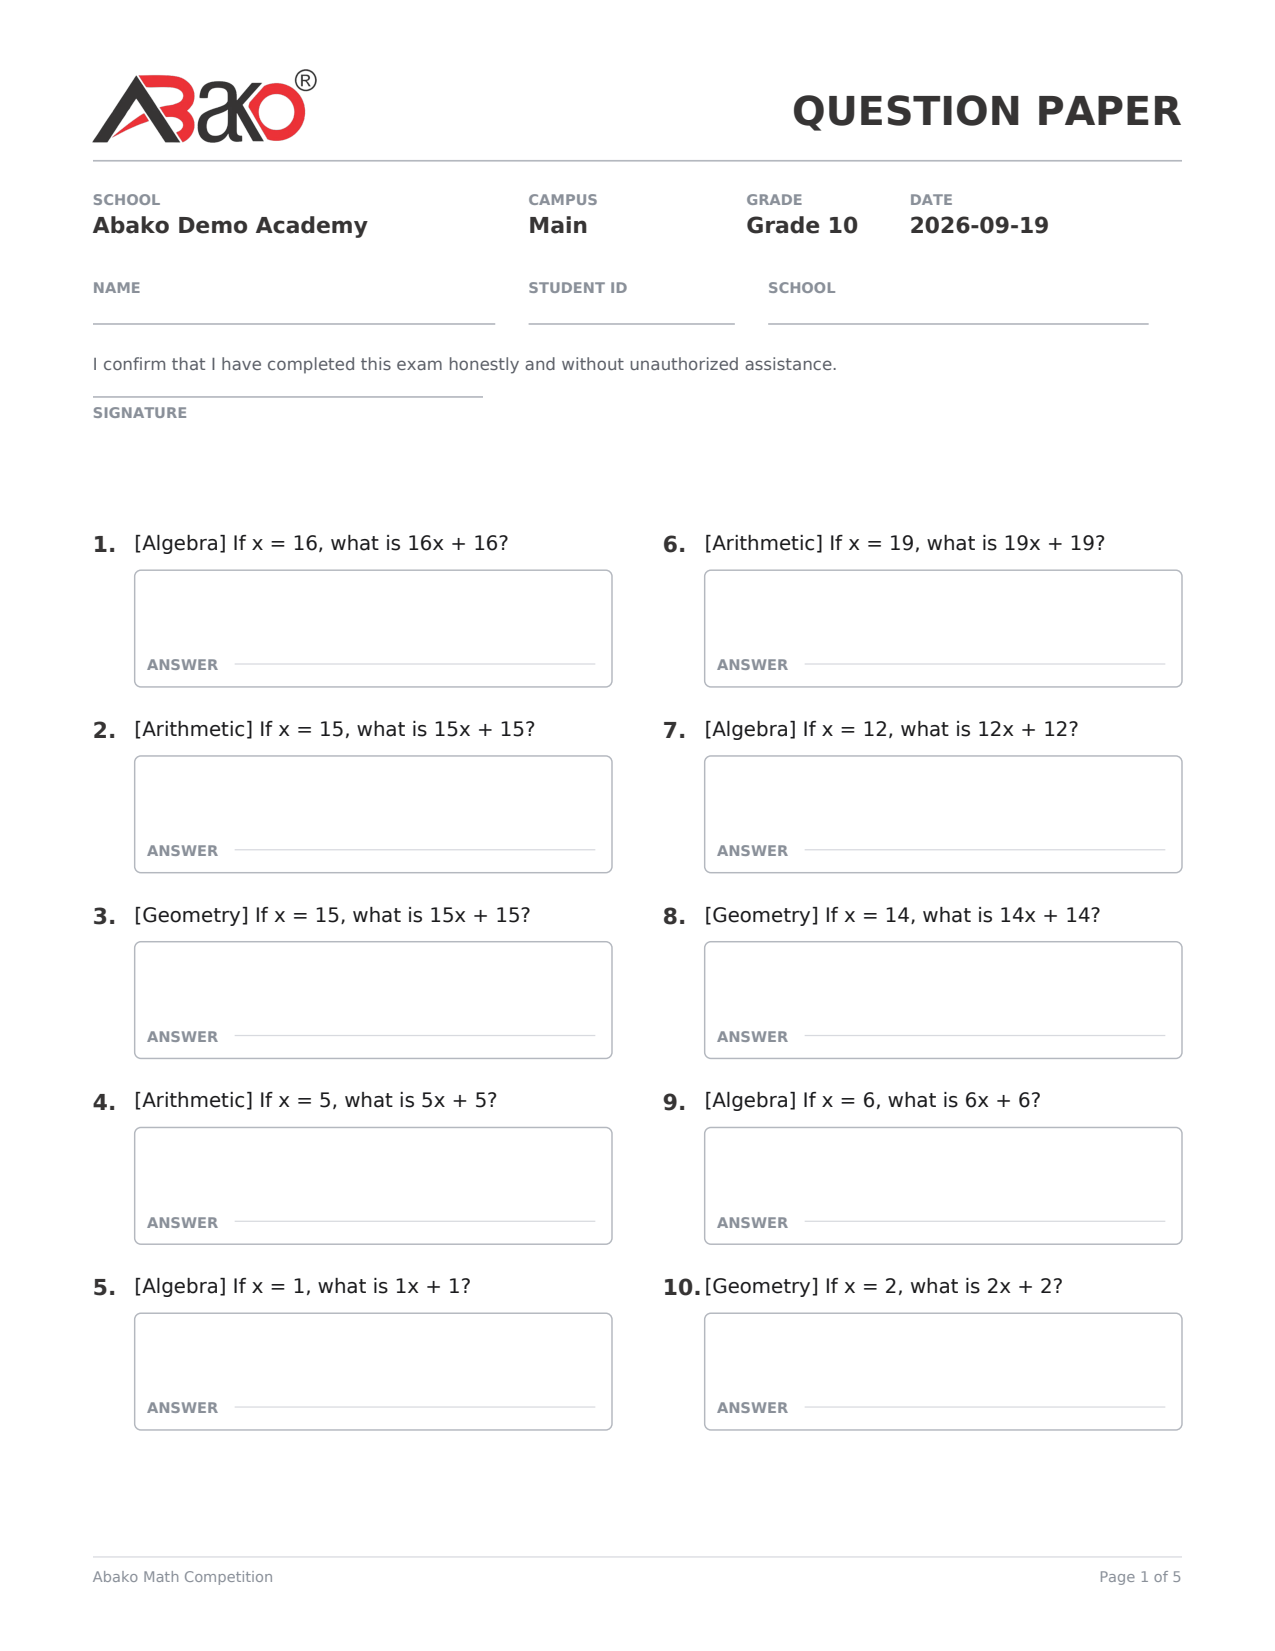
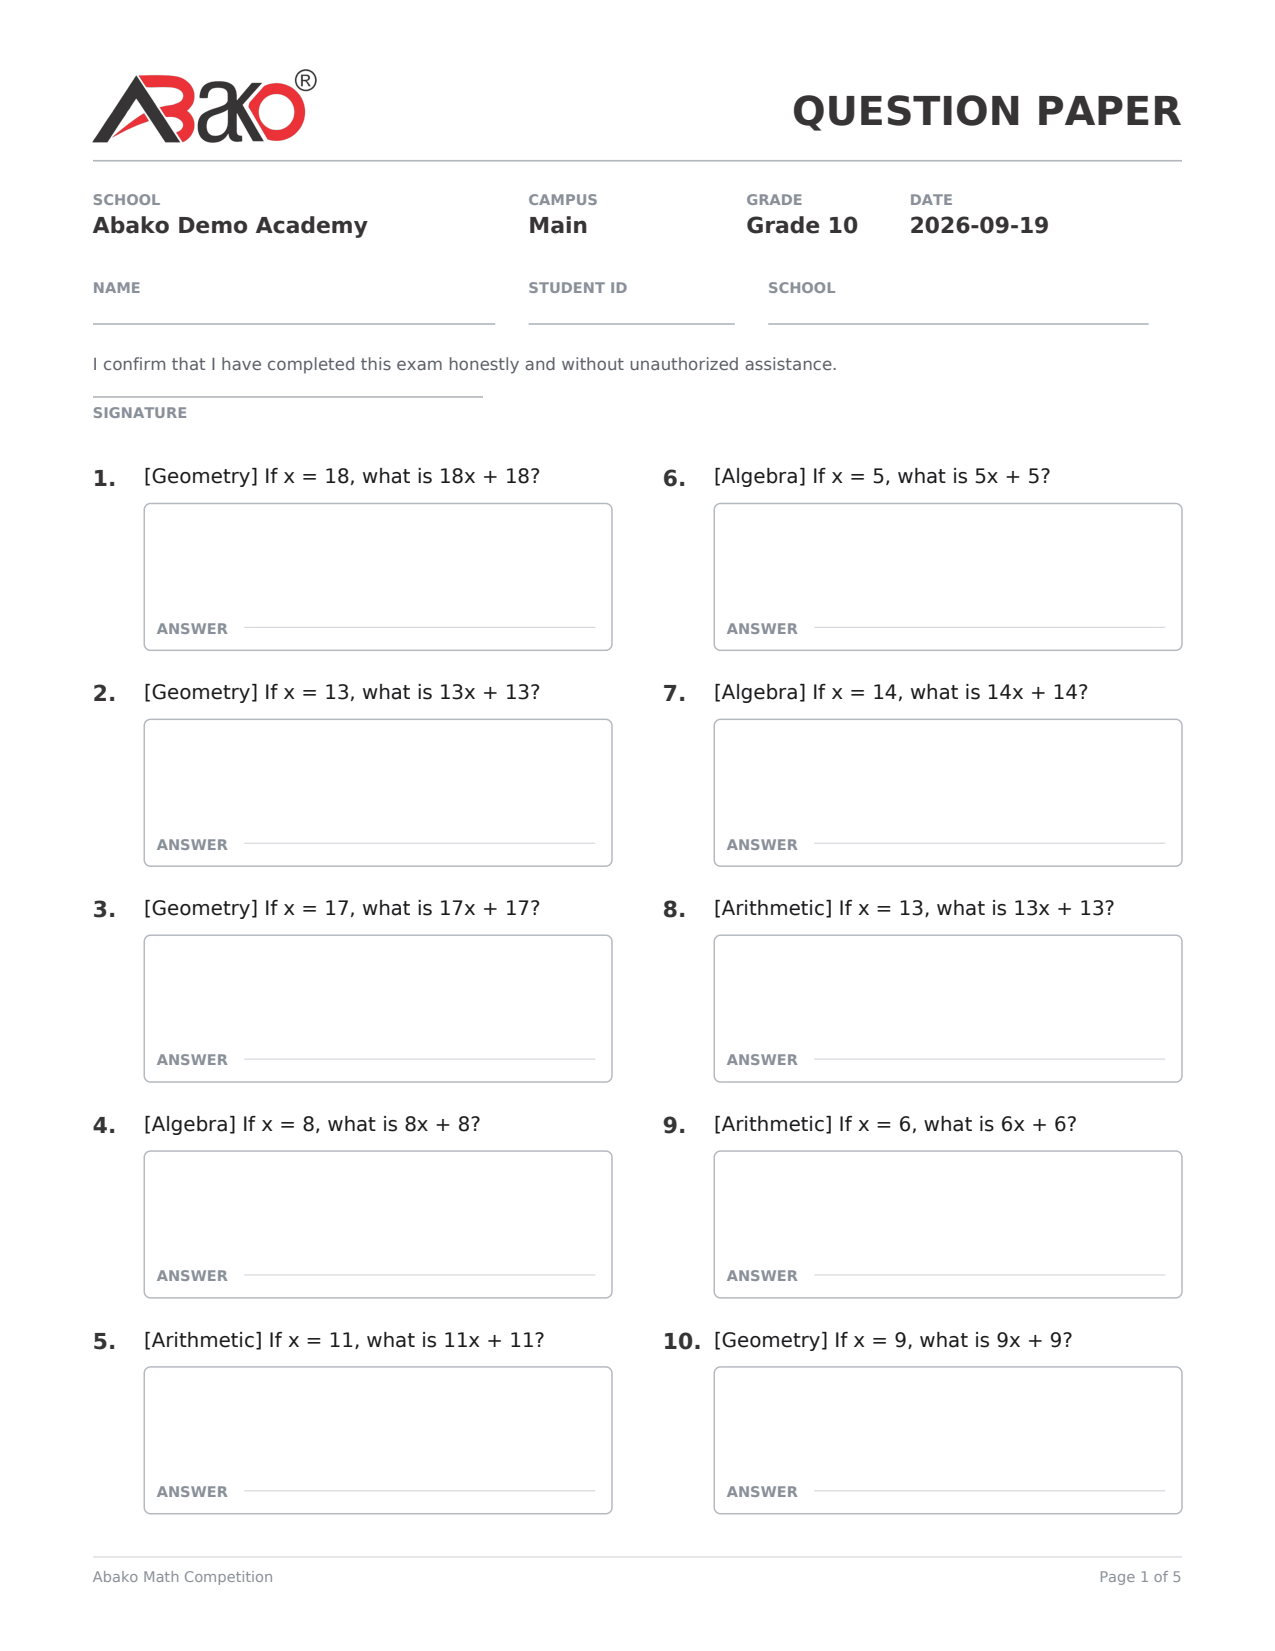
fix: correct number/text spacing and page-1 whitespace on the question paper
Size the hanging indent before each question from the widest number that
will actually be drawn (e.g. "60." at the bold body size) instead of a
flat 20pt constant, so two-digit numbers like "10." no longer run into
the question text.

Replace the guessed student-block height with a single geometry
calculation shared by the measuring pass and the drawing pass, so the
gap between the honour-code signature line and question 1 on page 1 is
one standard gap, not an accidental extra inch.

Let each column's answer boxes grow a little (capped, so a lone
question on a mostly-empty trailing column doesn't get one giant box) to
close up leftover space at the bottom of the column, so a full column on
page 1 now reads flush with the bottom margin the same way a full column
on page 2 onward does.

diff --git a/backend/pdf_manager.py b/backend/pdf_manager.py
@@ -26,6 +26,7 @@ from xml.sax.saxutils import escape
 
 from reportlab.lib.styles import ParagraphStyle
 from reportlab.lib.units import inch
+from reportlab.pdfbase.pdfmetrics import stringWidth
 from reportlab.pdfgen.canvas import Canvas
 from reportlab.platypus import Paragraph, Table, TableStyle
 
@@ -69,16 +70,27 @@ _CHARCOAL_HEX = _hex(theme.CHARCOAL)
 
 GUTTER = 0.34 * inch
 COL_WIDTH = (theme.CONTENT_W - GUTTER) / 2
-NUM_GUTTER = 20  # hanging indent reserved for the question number
-TEXT_WIDTH = COL_WIDTH - NUM_GUTTER
+NUM_TO_TEXT_GAP = 6  # breathing room between the number and the question text
 
 ANSWER_BOX_H = 56
+ANSWER_BOX_STRETCH_CAP = 22  # most a box may grow to help a column reach the bottom
 TAG_GAP = 3
 TEXT_TO_BOX_GAP = theme.GAP_XS + 2
 BLOCK_GAP = theme.GAP_MD
 
-STUDENT_BLOCK_H = 92
 RUNNING_HEADER_H = 0.95 * inch
+
+
+def _num_gutter_for(question_count):
+    """Width of the hanging indent reserved for the question number.
+
+    Sized from the widest number that will actually be drawn (e.g. "60."),
+    not a guessed constant - a fixed indent narrower than the boldest
+    two-digit number is what used to make "10." run straight into the
+    question text.
+    """
+    widest = f"{max(question_count, 1)}."
+    return stringWidth(widest, BODY_FONT_BOLD, theme.SIZE_H3) + NUM_TO_TEXT_GAP
 
 _question_style = ParagraphStyle(
     "examQuestion",
@@ -99,7 +111,7 @@ def _has_inline_tag(text):
     return stripped.startswith("[") and "]" in stripped[:40]
 
 
-def _build_question(index, question):
+def _build_question(index, question, text_width):
     text = str(question.get("Question_Text", f"Question {index + 1}"))
     tag = None
     if not _has_inline_tag(text):
@@ -108,23 +120,24 @@ def _build_question(index, question):
             tag = str(chapter)
 
     para = Paragraph(escape(text), _question_style)
-    _, text_h = para.wrap(TEXT_WIDTH, 5000)
+    _, text_h = para.wrap(text_width, 5000)
 
     tag_para = None
     tag_h = 0
     if tag:
         tag_para = Paragraph(theme.letterspace(tag), _tag_style)
-        _, raw_h = tag_para.wrap(TEXT_WIDTH, 200)
+        _, raw_h = tag_para.wrap(text_width, 200)
         tag_h = raw_h + TAG_GAP
 
-    height = tag_h + text_h + TEXT_TO_BOX_GAP + ANSWER_BOX_H + BLOCK_GAP
+    base_height = tag_h + text_h + TEXT_TO_BOX_GAP + ANSWER_BOX_H
     return {
         "number": index + 1,
         "para": para,
         "text_h": text_h,
         "tag_para": tag_para,
         "tag_h": tag_h,
-        "height": height,
+        "base_height": base_height,
+        "height": base_height + BLOCK_GAP,
     }
 
 
@@ -195,55 +208,76 @@ def _make_identity_table(school_info):
     return table
 
 
-def _draw_student_block(canvas, top):
+def _page1_chrome_geometry(identity_h):
+    """Every vertical position on the page-1 header/student block, computed
+    once from pdf_theme's spacing scale. Both the measuring pass (which
+    needs to know where column 1 starts before anything is drawn) and the
+    drawing pass read from this single calculation, so the two can never
+    drift apart the way a separately-guessed constant used to."""
+    top = theme.PAGE_H - 0.46 * inch
+    rule_y = top - theme.LOGO_H - 9
+    identity_top = rule_y - theme.GAP_MD
+    student_top = identity_top - identity_h - theme.GAP_LG
+
+    label_y = student_top
+    line_y = label_y - 15
+    honour_top = line_y - theme.GAP_LG
+    honour_line_y = honour_top - 13
+    signature_y = honour_line_y - 10
+
+    return {
+        "top": top,
+        "rule_y": rule_y,
+        "identity_top": identity_top,
+        "label_y": label_y,
+        "line_y": line_y,
+        "honour_top": honour_top,
+        "honour_line_y": honour_line_y,
+        "signature_y": signature_y,
+        "col_top": signature_y - theme.GAP_LG,
+    }
+
+
+def _draw_student_block(canvas, geo):
     """Ruled Name / Student ID / School lines plus a single honour-code
     signature line. This appears once, on page 1, never repeated."""
     field_widths = [theme.CONTENT_W * 0.40, theme.CONTENT_W * 0.22, theme.CONTENT_W * 0.38]
     labels = ["Name", "Student ID", "School"]
-    label_y = top
-    line_y = top - 15
 
     x = theme.MARGIN_X
     canvas.setFont(BODY_FONT_BOLD, theme.SIZE_MICRO)
     canvas.setFillColor(theme.MIST)
     for width, label in zip(field_widths, labels, strict=True):
-        canvas.drawString(x, label_y, label.upper())
-        theme.draw_rule(canvas, x, line_y, x + width - 16, theme.RULE_STRONG, 0.8)
+        canvas.drawString(x, geo["label_y"], label.upper())
+        theme.draw_rule(canvas, x, geo["line_y"], x + width - 16, theme.RULE_STRONG, 0.8)
         x += width
 
-    honour_top = line_y - theme.GAP_LG
-    honour_line_y = honour_top - 13
     canvas.setFont(BODY_FONT, theme.SIZE_SMALL)
     canvas.setFillColor(theme.SLATE)
     canvas.drawString(
-        theme.MARGIN_X, honour_top,
+        theme.MARGIN_X, geo["honour_top"],
         "I confirm that I have completed this exam honestly and without unauthorized assistance.",
     )
-    theme.draw_rule(canvas, theme.MARGIN_X, honour_line_y, theme.MARGIN_X + 2.6 * inch,
+    theme.draw_rule(canvas, theme.MARGIN_X, geo["honour_line_y"], theme.MARGIN_X + 2.6 * inch,
                      theme.RULE_STRONG, 0.8)
     canvas.setFont(BODY_FONT_BOLD, theme.SIZE_MICRO)
     canvas.setFillColor(theme.MIST)
-    canvas.drawString(theme.MARGIN_X, honour_line_y - 10, "SIGNATURE")
-
-    return honour_line_y - 10
+    canvas.drawString(theme.MARGIN_X, geo["signature_y"], "SIGNATURE")
 
 
-def _draw_page1_header(canvas, school_info, identity_table, identity_h):
-    top = theme.PAGE_H - 0.46 * inch
-    theme.draw_wordmark(canvas, theme.MARGIN_X, top - theme.LOGO_H)
+def _draw_page1_header(canvas, identity_table, identity_h, geo):
+    theme.draw_wordmark(canvas, theme.MARGIN_X, geo["top"] - theme.LOGO_H)
 
     canvas.setFont(BODY_FONT_BOLD, theme.SIZE_H1)
     canvas.setFillColor(theme.CHARCOAL)
-    canvas.drawRightString(theme.PAGE_W - theme.MARGIN_X, top - theme.LOGO_H + 8, "QUESTION PAPER")
+    canvas.drawRightString(theme.PAGE_W - theme.MARGIN_X, geo["top"] - theme.LOGO_H + 8,
+                            "QUESTION PAPER")
 
-    rule_y = top - theme.LOGO_H - 9
-    theme.draw_rule(canvas, theme.MARGIN_X, rule_y, theme.PAGE_W - theme.MARGIN_X, theme.RULE_STRONG, 0.8)
+    theme.draw_rule(canvas, theme.MARGIN_X, geo["rule_y"], theme.PAGE_W - theme.MARGIN_X,
+                     theme.RULE_STRONG, 0.8)
+    identity_table.drawOn(canvas, theme.MARGIN_X, geo["identity_top"] - identity_h)
 
-    identity_top = rule_y - theme.GAP_MD
-    identity_table.drawOn(canvas, theme.MARGIN_X, identity_top - identity_h)
-
-    student_top = identity_top - identity_h - theme.GAP_LG
-    return _draw_student_block(canvas, student_top) - theme.GAP_LG
+    _draw_student_block(canvas, geo)
 
 
 def _draw_running_header(canvas, school_info, page_num, total_pages):
@@ -296,9 +330,9 @@ def _draw_answer_box(canvas, x, y_top, width, height):
     canvas.restoreState()
 
 
-def _draw_question_block(canvas, block, x, y_top):
+def _draw_question_block(canvas, block, x, y_top, num_gutter, text_width, extra_box_h=0):
     cursor = y_top
-    text_x = x + NUM_GUTTER
+    text_x = x + num_gutter
 
     if block["tag_para"]:
         tag_h = block["tag_h"] - TAG_GAP
@@ -312,22 +346,34 @@ def _draw_question_block(canvas, block, x, y_top):
     block["para"].drawOn(canvas, text_x, cursor - block["text_h"])
     cursor -= block["text_h"] + TEXT_TO_BOX_GAP
 
-    _draw_answer_box(canvas, text_x, cursor, TEXT_WIDTH, ANSWER_BOX_H)
+    _draw_answer_box(canvas, text_x, cursor, text_width, ANSWER_BOX_H + extra_box_h)
+
+
+def _stretch_for_column(blocks_in_col, capacity):
+    """How much extra height each answer box in a packed column may grow so
+    the column reads flush with the bottom margin, capped so a sparsely
+    filled trailing column doesn't get one giant box."""
+    if not blocks_in_col:
+        return 0
+    used = sum(b["height"] for b in blocks_in_col)
+    leftover = capacity - used
+    if leftover <= 0:
+        return 0
+    return min(leftover / len(blocks_in_col), ANSWER_BOX_STRETCH_CAP)
 
 
 def generate_question_paper(filename, school_info, questions):
     os.makedirs(os.path.dirname(filename) or ".", exist_ok=True)
 
-    blocks = [_build_question(i, q) for i, q in enumerate(questions)]
+    num_gutter = _num_gutter_for(len(questions))
+    text_width = COL_WIDTH - num_gutter
+    blocks = [_build_question(i, q, text_width) for i, q in enumerate(questions)]
 
     identity_table = _make_identity_table(school_info)
     _, identity_h = identity_table.wrap(theme.CONTENT_W, 2000)
+    geo = _page1_chrome_geometry(identity_h)
 
-    top = theme.PAGE_H - 0.46 * inch
-    rule_y = top - theme.LOGO_H - 9
-    identity_top = rule_y - theme.GAP_MD
-    student_top = identity_top - identity_h - theme.GAP_LG
-    col_top_page1 = student_top - STUDENT_BLOCK_H - theme.GAP_LG
+    col_top_page1 = geo["col_top"]
     col_top_rest = theme.PAGE_H - RUNNING_HEADER_H
 
     first_col_h = col_top_page1 - theme.MARGIN_BOTTOM
@@ -341,17 +387,21 @@ def generate_question_paper(filename, school_info, questions):
     canvas = Canvas(filename, pagesize=(theme.PAGE_W, theme.PAGE_H))
     for page_index, page in enumerate(pages):
         if page_index == 0:
-            _draw_page1_header(canvas, school_info, identity_table, identity_h)
+            _draw_page1_header(canvas, identity_table, identity_h, geo)
             col_top = col_top_page1
+            capacity = first_col_h
         else:
             _draw_running_header(canvas, school_info, page_index + 1, total_pages)
             col_top = col_top_rest
+            capacity = rest_col_h
 
         for col in (0, 1):
+            col_blocks = page[col]
+            extra = _stretch_for_column(col_blocks, capacity)
             y = col_top
-            for block in page[col]:
-                _draw_question_block(canvas, block, col_x[col], y)
-                y -= block["height"]
+            for block in col_blocks:
+                _draw_question_block(canvas, block, col_x[col], y, num_gutter, text_width, extra)
+                y -= block["height"] + extra
 
         _draw_footer(canvas, page_index + 1, total_pages)
         canvas.showPage()
